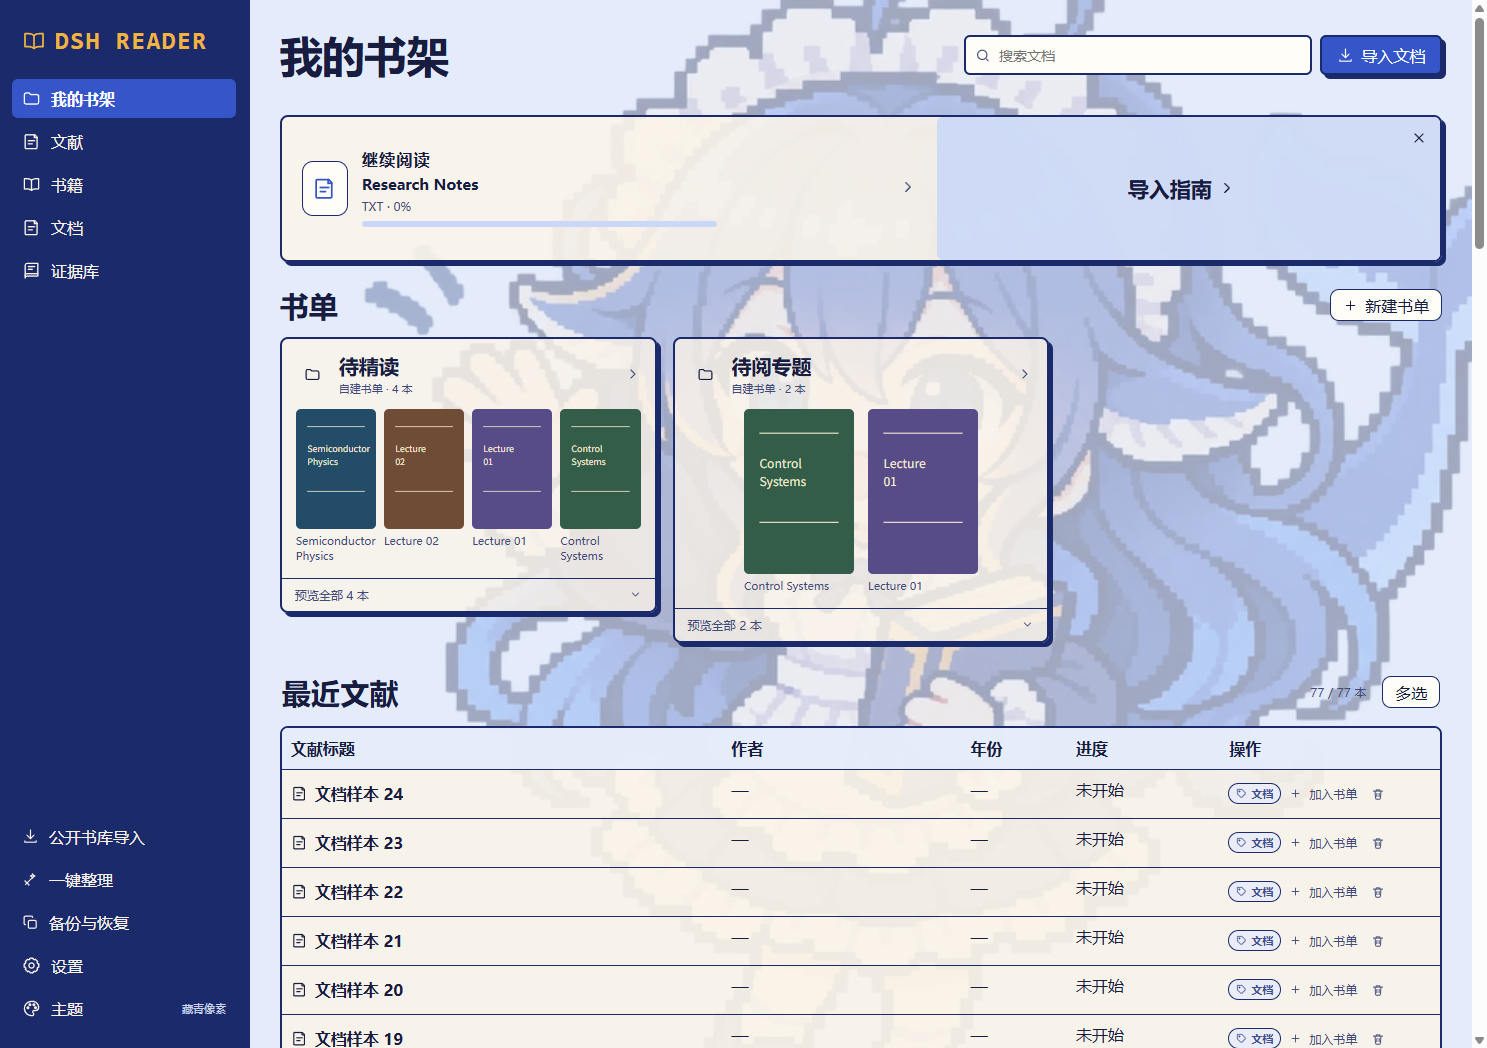
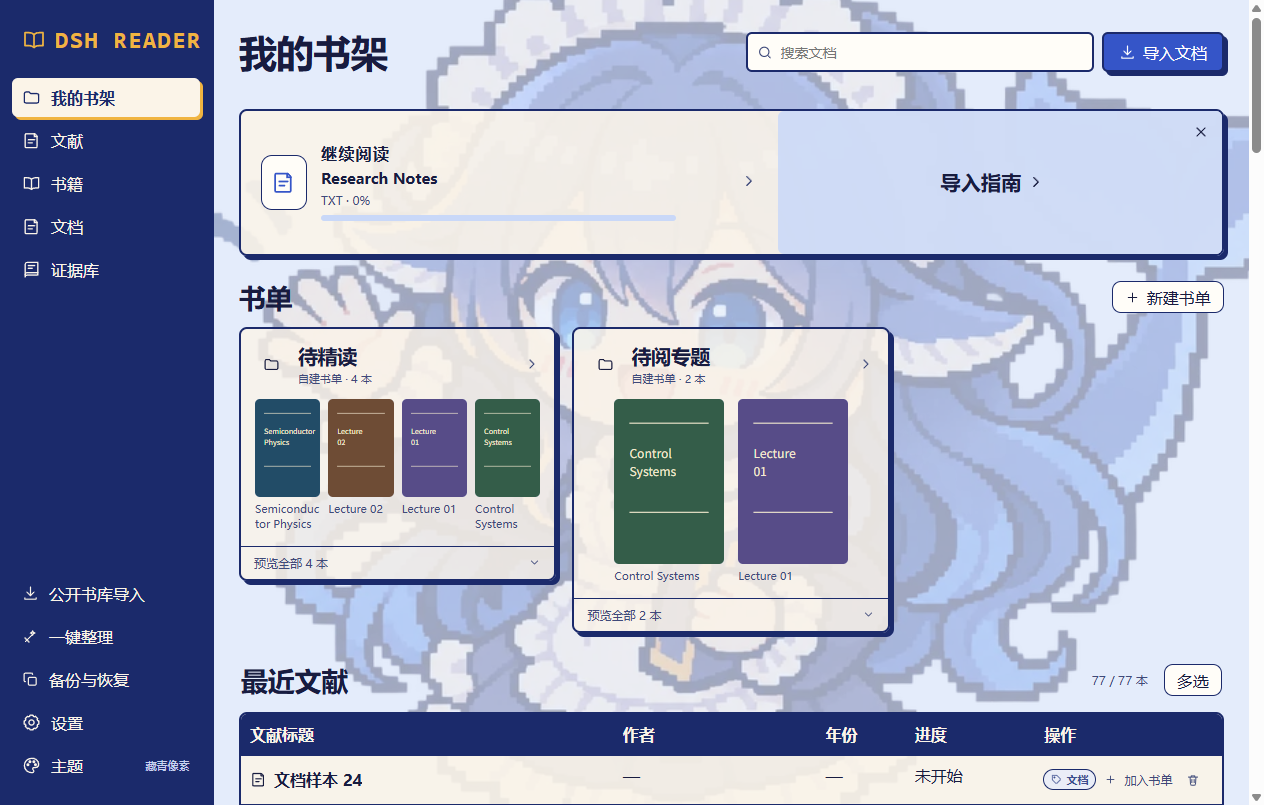
Add step-by-step guides with the whale girl to the project page
Each workspace now has numbered screenshots with matching steps. The
PDF workspace gets seven steps from opening a paper to returning from
saved evidence. The screenshots use sample documents.

diff --git a/README.de.md b/README.de.md
@@ -66,21 +66,90 @@ dsh plugin --profile web add "github:Popipot/DSH-Reading-Plugin#main"
 
 Für Desktop die integrierte Pluginverwaltung verwenden. Eine Installation im Profil `web` installiert das Plugin nicht im separaten Desktop-Profil.
 
-## Bibliothek organisieren
+## Schritt für Schritt
 
-Neben den Standardkategorien für Bücher, Fachliteratur und Dokumente kannst du eigene Sammlungen für Themen, Projekte oder Leselisten anlegen. Die Ordnerkarte zeigt bis zu vier Cover und Titel. Klappe die Titelliste auf, um alle enthaltenen Bücher zu sehen und direkt zu öffnen.
+Das Walmädchen führt durch die Anleitung. Die Nummern in jedem Bildschirmfoto gehören zu den Schritten darunter, und das Schild zeigt die Position in der Abfolge. Die Bildschirmfotos zeigen Beispieldokumente im Design Marine-Pixel. Die Oberfläche ist chinesisch.
 
-![Beispielbibliothek mit Covervorschau der Sammlungen und aufgeklappter Titelliste in der chinesischen Oberfläche](docs/images/library-paper.png)
+![Die sechs Posen der Begleiterin: Start, Suchen, Lesen, Sichern, Fertig, Pause](docs/images/guide/guide-poses.png)
 
-Über **加入书单** (Zur Sammlung hinzufügen) auf der Buchkarte ordnest du einzelne Bücher zu. Mit **多选** (Mehrfachauswahl) kannst du mehrere Bücher gleichzeitig hinzufügen. Ein Buch kann zu mehreren Sammlungen gehören und behält dabei dieselbe Leseposition und dieselben Anmerkungen. Die [bebilderte Anleitung zu Sammlungen](docs/USER_GUIDE.zh-CN.md#图书馆封面书单与批量归类) zeigt, wie du Sammlungen bearbeitest und Bücher daraus entfernst.
+### Bibliothek: importieren und ordnen
 
-## Erste Schritte
+![Bibliotheksstart mit markierter Importschaltfläche, Kategorien in der Seitenleiste und einer Sammlungskarte](docs/images/guide/library-home.png)
 
-1. **阅读** (Lesen) in der DSH-Seitenleiste öffnen.
-2. Eine unterstützte Datei in die Bibliothek ziehen oder **导入文档** (Dokument importieren) wählen.
-3. Das Dokument öffnen und oben zwischen Scrollen und horizontalem Umblättern wechseln.
-4. Bei Bedarf **实时翻译** (Live-Übersetzung) aktivieren. Standardmäßig ist sie ausgeschaltet.
-5. Text zum Übersetzen, Markieren, Fragenstellen oder Suchen auswählen. Lesepositionen und Anmerkungen werden lokal gespeichert.
+1. **导入文档** (Dokument importieren) wählen oder Dateien in die Bibliothek ziehen. Unterstützt werden PDF, EPUB, MOBI, TXT, Markdown und HTML.
+2. In der Seitenleiste zwischen **我的书架** (Meine Bibliothek), **文献** (Fachliteratur), **书籍** (Bücher), **文档** (Dokumente) und **证据库** (Belege) wechseln.
+3. Sammlungskarten zeigen eine Covervorschau. **预览全部** (Alle anzeigen) klappt die vollständige Titelliste auf. Mit **新建书单** (Neue Sammlung) nach Thema ordnen. Ein Buch kann in mehreren Sammlungen liegen und behält eine Leseposition und einen Satz Anmerkungen.
+
+Für mehrere Bücher auf einmal zuerst **多选** (Mehrfachauswahl) wählen. Die [bebilderte chinesische Anleitung](docs/USER_GUIDE.zh-CN.md#图书馆封面书单与批量归类) zeigt, wie Sammlungen bearbeitet und Bücher entfernt werden.
+
+![Designauswahl mit Vorschau auf Walblau](docs/images/guide/library-theme.png)
+
+1. Unten in der Seitenleiste **主题** (Design) wählen.
+2. Mit **预览** (Vorschau) ein Design ansehen und mit **应用** (Anwenden) übernehmen. Beim Schließen der Auswahl kehrt das bisherige Design zurück.
+
+### PDF-Arbeitsbereich: vom Lesen zum gesicherten Beleg
+
+**Schritt 1: PDF öffnen**
+
+![Die drei Bereiche des PDF-Arbeitsbereichs](docs/images/guide/pdf-open.png)
+
+1. Links steht die Gliederung.
+2. In der Mitte steht das Original im unveränderten Layout.
+3. Rechts liegt die Lesespalte. Sie wechselt zwischen **证据** (Belege) und **翻译** (Übersetzung).
+
+**Schritt 2: Zur gewünschten Stelle springen**
+
+![Ein Klick auf einen Gliederungseintrag springt zu Seite 2](docs/images/guide/pdf-outline.png)
+
+1. Einen Abschnitt in der Gliederung anklicken, um zu seiner Seite zu springen.
+2. Oder eine Seitenzahl in das Seitenfeld eingeben und die Eingabetaste drücken. Das hilft bei PDFs ohne Gliederung.
+
+**Schritt 3: Chinesische Übersetzung einschalten**
+
+![Der Schalter für die Live-Übersetzung und die chinesische Übersetzung rechts](docs/images/guide/pdf-translate.png)
+
+1. Oben **实时翻译** (Live-Übersetzung) einschalten. Sie ist standardmäßig aus und nutzt das in DSH eingerichtete Modell.
+2. Die Spalte zeigt die Übersetzung absatzweise. **定位原文** (Original anzeigen) führt zum passenden Absatz, **重译本段** (Neu übersetzen) übersetzt ihn erneut. Hier lassen sich auch die Schriftgröße ändern, das Glossar bearbeiten und die nächste Seite vorübersetzen.
+
+**Schritt 4: Die Stelle markieren, die zitiert werden soll**
+
+![Eine markierte Textstelle mit schwebender Werkzeugleiste und aktiver Schaltfläche zum Sichern in der Spalte](docs/images/guide/pdf-select.png)
+
+1. Text im Original markieren. Die schwebende Werkzeugleiste kann ihn übersetzen, hervorheben, von der KI erklären lassen oder danach suchen.
+2. In der Spalte **保存证据** (Beleg speichern) wählen.
+
+**Schritt 5: Beleg speichern**
+
+![Der Dialog zum Speichern eines Belegs](docs/images/guide/pdf-evidence.png)
+
+1. Notiz und gedruckte Seitenangabe sind freiwillig. Eine Übersetzung lässt sich später ergänzen.
+2. **保存证据** (Beleg speichern) wählen.
+
+**Schritt 6: Vom Beleg zum Original zurückkehren**
+
+![Nach dem Klick auf Zurück zum Original springt die Ansicht zu Seite 2 und bestätigt die genaue Stelle](docs/images/guide/pdf-return.png)
+
+1. Die Belege des aktuellen Artikels stehen in der Spalte. **回到原文** (Zurück zum Original) wählen.
+2. Die Ansicht springt zur gespeicherten Auswahl und meldet, ob die Stelle genau gefunden wurde.
+
+**Schritt 7: Leseansicht anpassen**
+
+![Vier Gruppen von Bedienelementen in der oberen Leiste](docs/images/guide/pdf-view.png)
+
+1. Schalter für Gliederung, Lesespalte und immersiven Modus.
+2. Darstellung sowie Anmerkungen und Notizen.
+3. **适宽** (Seitenbreite) wechselt den Zoom zwischen Seitenbreite und ganzer Seite. **滚动** (Scrollen) und **横版** (Horizontal) ändern das Blättern.
+4. Die KI-Spalte öffnen und Fragen zum aktuellen Dokument stellen.
+
+### Belegsammlung und Themen
+
+![Der Dialog der Belegsammlung mit gespeicherten Belegen](docs/images/guide/evidence-library.png)
+
+1. **证据库** (Belege) in der Seitenleiste sammelt die Belege aller Dokumente. Von dort geht es zurück zum Original, und Belege lassen sich bearbeiten, löschen oder für den Export auswählen.
+
+Für eine Übersichtsarbeit in einer Sammlung eine Forschungsfrage festhalten, Belege aus mehreren Artikeln gruppieren, Synthesenotizen schreiben und als UTF-8-Markdown exportieren. **备份与恢复** (Sicherung und Wiederherstellung) in der Seitenleiste exportiert Lese- und Forschungsdaten als lokale ZIP-Datei und zeigt Konflikte vor der Wiederherstellung.
+
+### Weitere Formate und Blättern
 
 Die Übersetzungsspalte lässt sich unabhängig scrollen, während das PDF sein Originallayout behält. Sie bietet Absatzverknüpfungen, ein Glossar, eine einstellbare Schriftgröße, erneute Übersetzungsversuche und die optionale Vorübersetzung der nächsten Seite. Bei E-Books mit fließendem Layout stehen Übersetzungen unter den Absätzen.
 

diff --git a/README.md b/README.md
@@ -66,21 +66,90 @@ dsh plugin --profile web add "github:Popipot/DSH-Reading-Plugin#main"
 
 For Desktop, use its plugin manager. A `web` profile installation does not install into Desktop's separate profile.
 
-## Organize your library
+## How to use it
 
-Create a collection for a topic, project, or reading list alongside the built-in Books, Papers, and Documents categories. A folder card previews up to four covers and titles. Expand it to see every title and open a book directly.
+The whale girl is your guide. The numbers in each screenshot match the steps below it, and her sign shows where you are in the sequence. The screenshots use sample documents and the Navy Pixel theme. The interface is in Chinese.
 
-![Example library with collection cover previews and an expanded list of titles in the Chinese interface](docs/images/library-paper.png)
+![The guide’s six poses: start, find, read, save, done, rest](docs/images/guide/guide-poses.png)
 
-Use **加入书单** (Add to collection) on a book card, or choose **多选** (Select multiple) to file several books at once. A book can belong to multiple collections and shares its reading position and notes across them. The [illustrated guide to collections](docs/USER_GUIDE.zh-CN.md#图书馆封面书单与批量归类) shows how to edit a collection or remove a book from it.
+### Library: import and organize
 
-## Start reading
+![Library home with the import button, sidebar categories, and a collection card marked](docs/images/guide/library-home.png)
 
-1. Open **阅读** (Reading) in the DSH sidebar.
-2. Drop a supported file into the library or choose **导入文档** (Import document).
-3. Open it and choose scrolling or horizontal page turning in the top bar.
-4. Enable **实时翻译** (Live translation) when needed. It is off by default.
-5. Select text to translate, annotate, ask AI, or search. Progress and notes are saved locally.
+1. Click **导入文档** (Import document), or drop files into the library. PDF, EPUB, MOBI, TXT, Markdown, and HTML are supported.
+2. Use the sidebar to switch between **我的书架** (My library), **文献** (Papers), **书籍** (Books), **文档** (Documents), and **证据库** (Evidence).
+3. Collection cards preview covers. Expand **预览全部** (Preview all) for the full list of titles. Click **新建书单** (New collection) to group by topic. A book can belong to several collections and keeps one reading position and one set of notes.
+
+To sort several books at once, click **多选** (Select) first. The [illustrated Chinese guide](docs/USER_GUIDE.zh-CN.md#图书馆封面书单与批量归类) shows how to edit a collection or remove books from it.
+
+![Theme picker previewing Whale Blue](docs/images/guide/library-theme.png)
+
+1. Click **主题** (Theme) at the bottom of the sidebar.
+2. Click **预览** (Preview) to try a theme, then **应用** (Apply) to keep it. Closing the panel restores the theme you had.
+
+### PDF workspace: from reading to saved evidence
+
+**Step 1. Open a PDF**
+
+![The three areas of the PDF workspace](docs/images/guide/pdf-open.png)
+
+1. The outline is on the left.
+2. The original is in the middle and keeps its layout.
+3. The reading panel is on the right. It switches between **证据** (Evidence) and **翻译** (Translation).
+
+**Step 2. Go to the part you need**
+
+![Clicking an outline entry jumps to page 2](docs/images/guide/pdf-outline.png)
+
+1. Click a section in the outline to jump to its page.
+2. Or type a page number in the page box and press Enter. Use this for PDFs without an outline.
+
+**Step 3. Turn on the Chinese translation**
+
+![The live translation switch and the Chinese translation on the right](docs/images/guide/pdf-translate.png)
+
+1. Turn on **实时翻译** (Live translation) in the top bar. It is off by default and calls the model you configured in DSH.
+2. The panel shows the translation paragraph by paragraph. **定位原文** (Locate original) returns to the matching paragraph and **重译本段** (Retranslate) translates it again. You can also change the font size, edit the glossary, and pretranslate the next page here.
+
+**Step 4. Select the passage you want to cite**
+
+![A selected passage with the floating toolbar, and the save evidence button enabled in the panel](docs/images/guide/pdf-select.png)
+
+1. Select text in the original. The floating toolbar can translate it, mark it, ask AI to explain it, or search for it.
+2. Click **保存证据** (Save evidence) in the panel.
+
+**Step 5. Save the evidence**
+
+![The save evidence dialog](docs/images/guide/pdf-evidence.png)
+
+1. The note and the printed page label are optional. You can add a translation later.
+2. Click **保存证据** (Save evidence).
+
+**Step 6. Return from evidence to the original**
+
+![After clicking return to original, the page jumps back to page 2 and confirms the exact location](docs/images/guide/pdf-return.png)
+
+1. Evidence from the current paper is listed in the panel. Click **回到原文** (Return to original).
+2. The page jumps back to the saved selection and tells you whether the location is exact.
+
+**Step 7. Adjust how you read**
+
+![Four groups of controls in the top bar](docs/images/guide/pdf-view.png)
+
+1. Toggles for the outline, the reading panel, and immersive mode.
+2. Reading appearance, and annotations and notes.
+3. **适宽** (Fit width) switches the zoom between fit width and fit page. **滚动** (Scroll) and **横版** (Horizontal) change how pages turn.
+4. Open the AI panel to ask about the current document.
+
+### Evidence library and topics
+
+![The evidence library dialog listing saved evidence](docs/images/guide/evidence-library.png)
+
+1. **证据库** (Evidence) in the sidebar collects evidence from every document. You can return to the original, edit, delete, or select items to export.
+
+For a review, write a research question in a collection, group evidence from several papers, add synthesis notes, and export UTF-8 Markdown. **备份与恢复** (Backup and restore) in the sidebar exports reading and research data to a local ZIP and previews conflicts before restoring.
+
+### Other formats and page turning
 
 For PDFs, the translation pane scrolls independently while the original keeps its layout. It supports paragraph links, a glossary, font size controls, retry, and optional next-page pretranslation. Reflowable ebooks show translations below paragraphs.
 

diff --git a/README.zh-CN.md b/README.zh-CN.md
@@ -66,21 +66,90 @@ dsh plugin --profile web add "github:Popipot/DSH-Reading-Plugin#main"
 
 桌面版请使用自带插件管理器。安装到 `web` profile 不会自动安装到桌面版独立的 profile。
 
-## 整理书架
+## 使用引导
 
-除了默认的「书籍」「文献」「文档」分类，还可以按专题、项目或阅读计划新建书单文件夹。每张卡片最多预览四本书的封面和书名。展开「预览全部」可查看完整书名清单，点书名直接阅读。
+鲸鱼娘是这里的引导员。每张截图里的编号对应图下的步骤，右下角的牌子标出这是第几步。截图使用示例文档和「藏青像素」主题。
 
-![书架示例，展示书单封面预览和展开的书名清单](docs/images/library-paper.png)
+![引导员的六个动作：开始、查找、阅读、记录、完成、休息](docs/images/guide/guide-poses.png)
 
-点击书籍卡片上的 **加入书单**，也可以先点 **多选** 批量归类。同一本书可以加入多个书单，阅读进度和批注共用。编辑书单或移出书籍的方法见 [书单图文教程](docs/USER_GUIDE.zh-CN.md#图书馆封面书单与批量归类)。
+### 书架：导入和整理
 
-## 开始阅读
+![书架首页，标出导入文档按钮、左栏分类和书单卡片](docs/images/guide/library-home.png)
 
-1. 在 DSH 侧栏打开 **阅读**。
-2. 拖入支持的文件，或点击 **导入文档**。
-3. 打开文档，在顶部切换滚动或横版阅读。
-4. 需要时开启 **实时翻译**，默认关闭。
-5. 选中文字即可翻译、标记、问 AI 或搜索；进度和批注保存在本机。
+1. 点 **导入文档**，或把文件拖进书架。支持 PDF、EPUB、MOBI、TXT、Markdown 和 HTML。
+2. 在左栏切换 **我的书架**、**文献**、**书籍**、**文档** 和 **证据库**。
+3. 书单卡片预览封面，展开 **预览全部** 可看完整书名。点 **新建书单** 按专题归类，同一本书可以放进多个书单，阅读进度和批注共用。
+
+批量归类先点 **多选**。编辑书单或移出书籍的方法见 [书单图文教程](docs/USER_GUIDE.zh-CN.md#图书馆封面书单与批量归类)。
+
+![主题选择器，正在预览鲸海蓝](docs/images/guide/library-theme.png)
+
+1. 点左栏底部的 **主题**。
+2. 先点 **预览** 看效果，满意后点 **应用**。直接关闭面板会还原成原来的主题。
+
+### PDF 工作区：从读到存证据
+
+**第 1 步　打开 PDF**
+
+![PDF 工作区的三个区域](docs/images/guide/pdf-open.png)
+
+1. 左侧是文档目录。
+2. 中间是原文，版式保持不变。
+3. 右侧是阅读侧栏，在 **证据** 和 **翻译** 之间切换。
+
+**第 2 步　跳到要读的位置**
+
+![点击目录条目跳转到第 2 页](docs/images/guide/pdf-outline.png)
+
+1. 点目录里的章节，直接跳到对应页。
+2. 也可以在页码框输入页码后按回车。没有目录的 PDF 用这个方法。
+
+**第 3 步　打开中文对照**
+
+![实时翻译开关和右侧的中文对照](docs/images/guide/pdf-translate.png)
+
+1. 打开顶部的 **实时翻译**。它默认关闭，开启后会调用你在 DSH 里配置的模型。
+2. 右侧按段落显示译文。点 **定位原文** 回到对应段落，点 **重译本段** 重新翻译。这里还能调字号、编辑术语表和预译下一页。
+
+**第 4 步　选中要引用的原文**
+
+![选中一段原文后出现工具栏，侧栏的保存证据按钮可用](docs/images/guide/pdf-select.png)
+
+1. 用鼠标选中原文。浮动工具栏可以翻译、标记、让 AI 解释或搜索这段文字。
+2. 点侧栏的 **保存证据**。
+
+**第 5 步　保存证据**
+
+![保存证据对话框](docs/images/guide/pdf-evidence.png)
+
+1. 备注和印刷页标都可以不填。译文可以之后再补。
+2. 点 **保存证据**。
+
+**第 6 步　从证据回到原文**
+
+![点击回到原文后，页面跳回第 2 页并提示已精确定位](docs/images/guide/pdf-return.png)
+
+1. 当前论文的证据列在侧栏里。点 **回到原文**。
+2. 页面跳回保存时的选区，并提示是否精确定位。
+
+**第 7 步　调整阅读方式**
+
+![顶栏的四组控制](docs/images/guide/pdf-view.png)
+
+1. 依次是目录、阅读侧栏和沉浸模式的开关。
+2. 阅读外观，以及批注与便签。
+3. 点 **适宽** 在适宽和整页之间切换缩放，**滚动** 和 **横版** 切换翻页方式。
+4. 打开 AI 面板，就当前文档提问。
+
+### 证据库和专题
+
+![证据库对话框，列出已保存的证据](docs/images/guide/evidence-library.png)
+
+1. 左栏的 **证据库** 汇总所有文档的证据。可以回到原文、编辑、删除，或勾选后导出。
+
+写综述时，在书单里填写研究问题，把多篇论文的证据分组比较，写综合笔记，再导出 UTF-8 Markdown。左栏的 **备份与恢复** 把阅读和研究资料导出为本地 ZIP，恢复前会预检并预览冲突。
+
+### 其他格式和翻页
 
 PDF 译文侧栏独立滚动，原文保持原有版式。侧栏支持段落联动、术语表、字号调整、重试和可选的下一页预译。EPUB 等流式格式的译文显示在段落下方。
 
